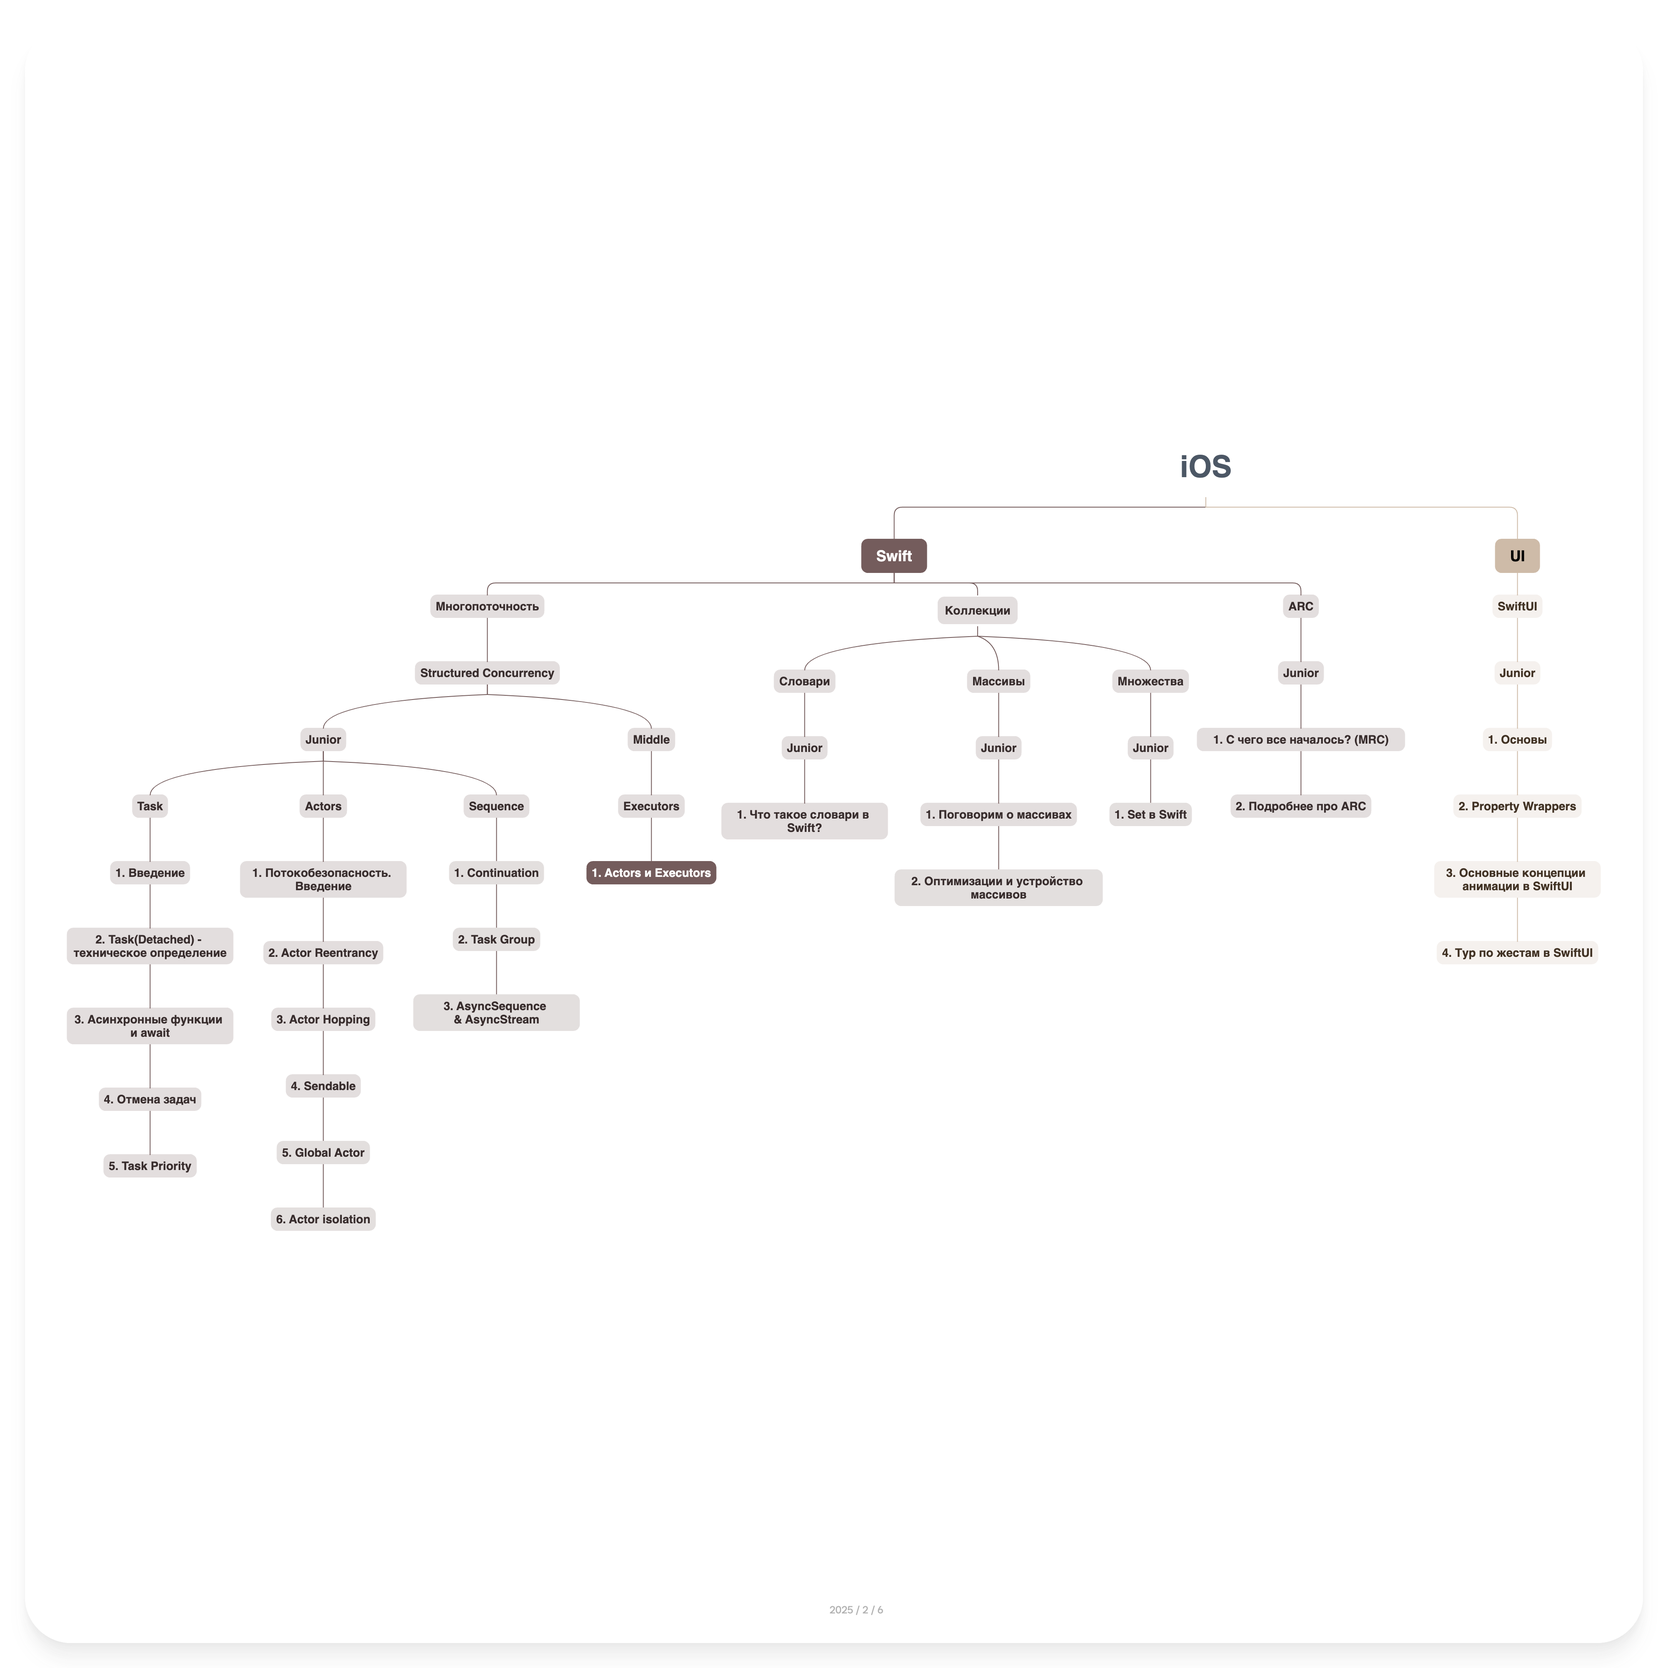
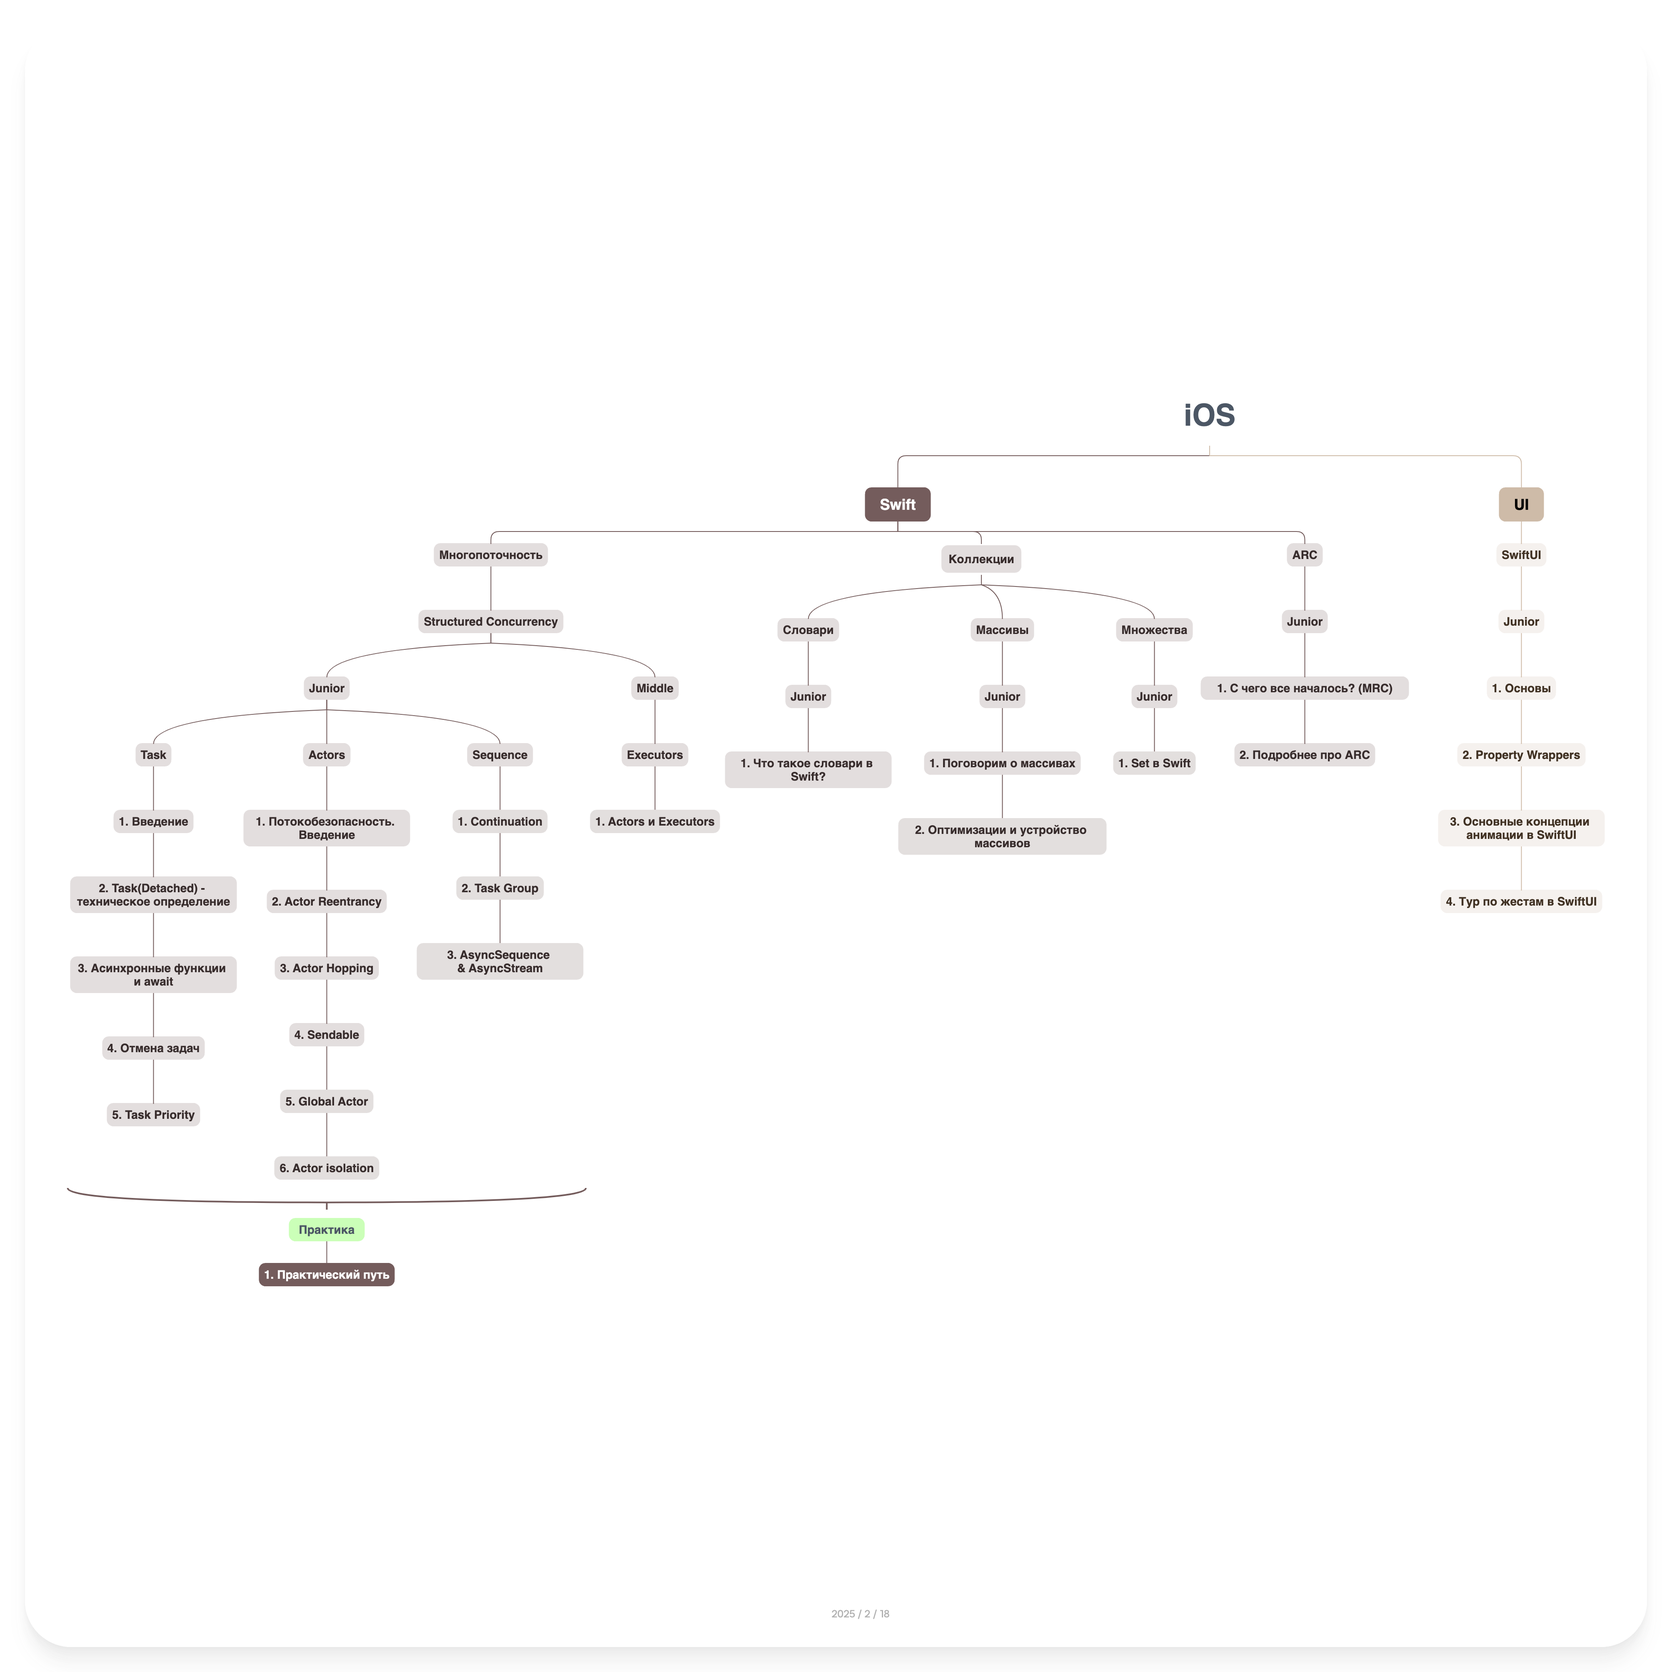
Sync changes from private repo to public

diff --git a/docs/Swift/Многопоточность/Structured Concurrency/Junior/Практика/1. Практический путь.md b/docs/Swift/Многопоточность/Structured Concurrency/Junior/Практика/1. Практический путь.md
@@ -1,0 +1,240 @@
+Прежде чем переходить к практике,  необходимо прочитать теоретический материал. 
+
+1. Tasks
+2. Actors
+3. Sequence
+
+Если у вас не получается решить задачу, например:
+
+-  Ваш ответ не совпадает с ответом автора
+-  Не проходят тесты
+-  Вы не знаете что делать и с чего начать
+
+Возвращайтесь к теории и внимательно изучайте теоретический материал. Не стесняйтесь гуглить или использовать chatGPT. **Самое важное - понимание.**
+
+## Задача 1
+
+Что будет выведено на экран?
+
+```swift
+final class SomeViewController: UIViewController {
+
+	override func viewDidLoad() {
+		super.viewDidLoad()
+
+		Task {
+			print("Is Main Thread - \(Thread.isMainThread)")
+			await foo()
+			print("Is Main Thread - \(Thread.isMainThread)")
+		}
+	
+		Task.detached {
+			print("Is Main Thread - \(Thread.isMainThread)")
+			await foo()
+			print("Is Main Thread - \(Thread.isMainThread)")
+		}
+	}
+
+	func foo() async {
+	    print("Is Main Thread - \(Thread.isMainThread)")
+	    try? await Task.sleep(for: .seconds(1))
+	}
+}
+```
+
+## Задача 2
+
+1) Что будет выведено на экран?
+2) Отменилась ли задача? - ответ обосновать. Если да - то почему? Если нет - то почему и как сделать чтобы отменилась?
+3) Что будет если вместо Task написать Task.detached?
+
+```swift
+let task = Task {
+    print("Task 1 has started")
+	await startLongTask()
+    print("Task 1 has finished")
+   
+    print("Task 2 has started")
+	await startLongTask()
+    print("Task 2 has finished")
+}
+
+func startLongTask() async {
+	try? await Task.sleep(for: .seconds(5))
+}
+task.cancel()
+```
+
+## Задача 3
+
+Что происходит в момент вызова await? как система работает с потоком? что такое continuation?
+
+## Задача 4
+
+Предположим вы разрабатываете чат и когда пользователь входит в чат, вам необходимо раз в  n секунд дёргать запрос, который оповещает, что пользователь  находится всё ещё в чате. Вам необходимо реализовать сервис, удовлетворяющий протоколу AnyLookingService, который бы отправлял события на сервер до тех пор пока не вызовется метод stop
+
+```swift
+public protocol AnyLookingService: Sendable {
+	func start()
+    func stop()
+}
+
+/// Метод отправки реализовывать не нужно достаточно использовать функцию ниже
+/// Если метод выкинул ошибку - необходимо прекратить дальнейшую отсылку событий
+/// В ином случае необходимо продолжать отправку спустя n секунд
+func sendLooking() async throws { ... }
+```
+
+## Задача 5
+
+Чем отличается *withCheckedContinuation* и *withUnsafeContinuation* ?
+ 
+## Задача 6
+
+К вам на ревью попала задача, которая имеет код ниже. Видите ли вы какие-нибудь проблемы?  Если да, то необходимо подсветить их и обосновать почему это явялется проблемой?
+
+```swift
+import Foundation
+
+actor ActivitiesStorage {
+
+	private var cache = [UUID: Data?]()
+
+    func retrieveHeavyData(for id: UUID) async -> Data? {
+		if let data = cache[id] {
+			return data
+        }
+        let data = await requestDataFromDatabase(for: id)
+        cache[id] = data
+        return data
+
+    }
+
+    private func requestDataFromDatabase(for id: UUID) async -> Data? {
+        print("Performing heavy data loading!")
+        try! await Task.sleep(for: .seconds(1))
+        // ...
+        return nil
+    }
+}
+```
+
+## Задача 7
+
+Расскажите как работает Actor? Какие нюансы есть при работе с Actor?
+
+## Задача 8
+
+Вы снова являетесь ревьюером задачи, в проекте вы используете MVVM и вам приносят на ревью код:
+
+```swift
+@MainActor
+class OnboardingViewModel: ViewModel {
+///
+}
+```
+
+Будут ли у вас какие-нибудь замечания?  хорошая ли идея помечать целый класс @MainActor - какие неприятные последствия могут быть в будущем при расширении проекта?
+
+## Задача 9
+
+Напишите реализацию своей  AsyncSequence, например чтобы отдавались числа до определённого лимита с задержкой в 1 секунду. Учитывайте возможность отмены работы AsyncSequence.
+
+## Задача 10
+
+У вас есть легаси функция, которая содержит completion, код который вы пишите - асинхронный. Как можно вызвать данную функцию?
+
+```swift
+func fetchImageData(id: UUID, completion: @escaping (Result<Data, Error>)) {
+	/// ...
+}
+
+
+func loadImage(from id: UUID) async throws -> Data {
+	// Ваш код
+}
+```
+
+## Задача 11
+
+Вы ревьюер. Что скажете про код ниже? можно ли его оптимизировать?
+
+```swift
+
+final class SomeInteractor: Sendable {
+	/// ...
+
+	func fetchUser(uid: UUID) async {
+		do {
+			let user = try await userService.fetchUserFromDatabase(by: uid)
+			await presenter.displayUser(user)
+			let updatedUser = try await userService.loadUserFromNetwork(by: uid)
+			try Task.checkCancellation()
+			await presenter.displayUser(updatedUser)
+		} catch {
+			print("Error fetching user: \(error)")
+		}
+	}
+}
+```
+
+## Задача 12
+
+Напишите реализацию кеша, который бы мог хранить в себе информацию, определённое время и по истечении времени возвращать nil. На инициализацию данный кеш должен принимать TimeInterval, который означает время жизни кеша. В функционале должны быть реализованы следующие методы:
+
+```swift
+private struct Cache {
+	let value: T
+	let date: Date
+}
+
+/// Ваш класс/эктор {
+
+    private let cacheLifeTimeSeconds: TimeInterval
+    private var cache: Cache?
+
+    public var value: (value: T?, shouldUpdate: Bool) { ... }
+    public func set(_ newValue: T?) { ... }
+}
+```
+
+## Задача 13
+
+Можно ли в задаче выше обойтись без actor? Если да - то как, если нет - то почему? Использовать другие механизмы синхронизации НЕЛЬЗЯ
+
+## Задача 14*
+
+Вам дали задачку,  в которой необходимо реализовать сервис получения аватарок пользователя. Сервис должен удовлетворять протоколу ниже
+
+```swift
+public typealias AvatarUpdatePublisher = AsyncPublisher<AnyPublisher<(UUID, Avatar), Never>>
+
+public protocol AnyAvatarService: Sendable {
+	
+	var updatesPublisher: AvatarPublisher { get }
+
+    /// Запрашивает на сервере (если нужно), готовит и возвращает аватар нужного размера
+    func requestAvatar(for user: UUID) async throws -> Avatar
+    /// Порядок в возвращаемом массиве НЕ соответствует порядку запросов
+    func requestAvatars(for userIds: [UUID]) async throws -> [Avatar]
+
+    func setupCacheLimits(countLimit: Int, totalCostLimit: Int) async
+    func clearAllAvatars() async
+}
+```
+
+Данный сервис должен работать следующим образом. Когда UI функционал запрашивает аватарку, сервис должен проверить - находится ли она в рантайм кеше - если да, то отдать. Если нет - то необходимо проверить скачено ли изображение и хранится ли оно локально на телефоне, если да - тот необходимо обработать это изображение и вернуть пользователю в нужном размере. В остальном случае необходимо запросить изображение у сервера.
+
+Дополнительные условия:
+
+- Если сервер отвечает ошибкой - то необходимо сгенерировать изображение, на котором нужно написать первую букву email
+- Если выполняется запрос на сервер для какого-нибудь userId, то он должен быть единственным, дублирования запросов с одинаковыми айдишниками быть не должно
+- У рантайм кеша должен быть лимит и он должен правильно подчищаться
+- Пользователь может запросить один из трех размеров изображения (64, 32, 16). С сервера возвращается исходное изображение размера 128x128
+- Также необходимо учитывать, что запрос аватарок можно происходить из нескольких мест приложения
+- *** Если вы чувствуете в себе силы, можно написать ViewModifier,  чтобы было удобно работать с сервисом на UI. Подумайте, как это можно лучше сделать?
+
+*Примечание*
+Начинайте реализовывать данный функционал последовательно - не пытайтесь написать сразу идеально. Начните с самого просто шага, когда запрос аватара происходит из 1 места на UI, подумайте что можно использовать для рантайм кеша? может есть что-то системное? или же вы захотите написать что-нибудь своё? Далее плавно повышайте сложность вашего сервиса, следите за потокобезопасностью, reetrancy.  Данная задача может многому вас научить, она сочетает в себе все пройденные темы. По итогу реализации старайтесь думать о крайних кейсах, когда нужно загрузить множество аватаров, плохая сеть и другие.
+
+Самым последним шагом приступайте к реализации updatesPublisher, он  необходим для того, чтобы оповещать уже имеющиеся вьюхи о произошедших изменениях.
